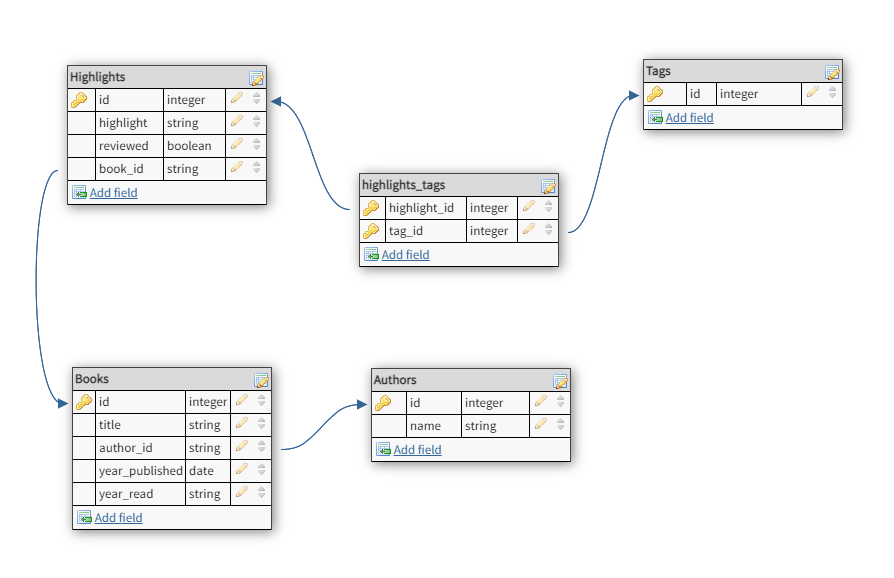
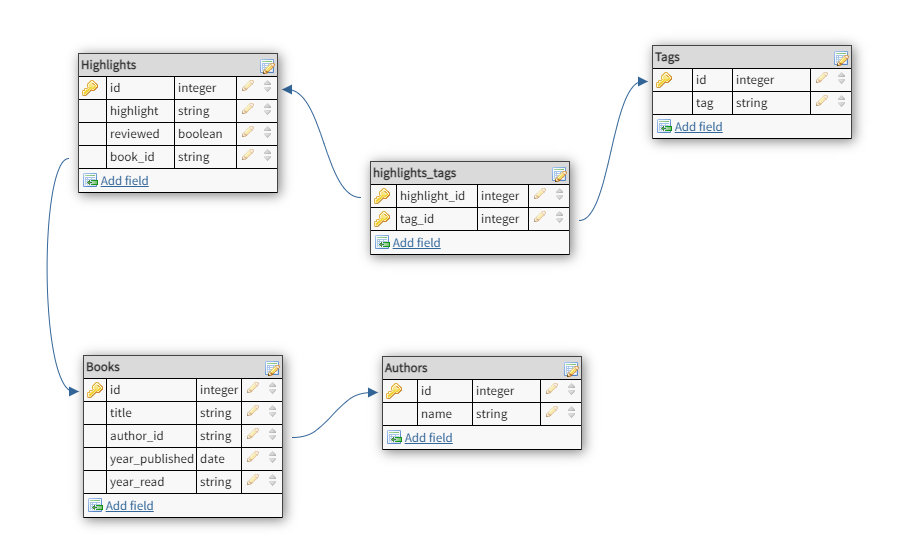
Fixed merge conflict and updated schema diagram.

diff --git a/src/components/Authors.js b/src/components/Authors.js
@@ -6,14 +6,10 @@ import { Context } from '../App';
 import axios from "axios";
 
 export default function Authors() {
-<<<<<<< Updated upstream
     // ------------------------- useStates and useContext ------------------------
     const { currentUser } = useContext(AuthContext);
     const { state, dispatch } = useContext(Context);
     
-=======
-    // ---------------------- useStates ---------------------
->>>>>>> Stashed changes
     const [addModalShow, setAddModalShow] = useState(false);
     const [delModalShow, setDelModalShow] = useState(false);
     const [editModalShow, setEditModalShow] = useState(false);
@@ -21,21 +17,13 @@ export default function Authors() {
     const [authors, setAuthors] = useState([]);
     const [editAuthorVal, setEditAuthorVal] = useState(null);
 
-<<<<<<< Updated upstream
     // ------------------------- useEffect -------------------------------------
-=======
-    // -------------------- useEffect -----------------------------
->>>>>>> Stashed changes
     useEffect(() => {
         if (state.data === undefined) return;
         setAuthors(filterAuthors(state.data));
     }, [state.filters, state.data.authors]);
 
-<<<<<<< Updated upstream
     // ------------------------- filtering -----------------------------------
-=======
-    // -------------------- filtering-----------------------------
->>>>>>> Stashed changes
     function filterAuthors(data) {
         if (state.filters.author !== "") return [data.authors.find(a => a.id === state.filters.author)];
         if (state.filters.book !== "") {
@@ -102,16 +90,9 @@ export default function Authors() {
         </form>    
     )
 
-<<<<<<< Updated upstream
     // ------------------------- Delete Author -------------------------------
     async function deleteAuthor() {
         if (authors.length === 1) dispatch({type: 'clearFilters'});
-=======
-    // -------------------- Edit Author -----------------------------
-
-    // -------------------- Delete Author -----------------------------
-    async function deleteAuthor() {
->>>>>>> Stashed changes
         const deleted = await axios.delete(`/api/${currentUser.uid}/authors/${selectedItem}`); 
         dispatch({type: 'deleteAuthor', payload: deleted.data[0]});
         setDelModalShow(false);
@@ -130,11 +111,7 @@ export default function Authors() {
         </>
     )
 
-<<<<<<< Updated upstream
-    // -------------------------- Auth component return -----------------------
-=======
     // ---------------------- Author component return -------------------------------------------
->>>>>>> Stashed changes
     return (
         <div className="authors filter-component">
             <h3>Authors ({(authors.length) || 0})</h3>
